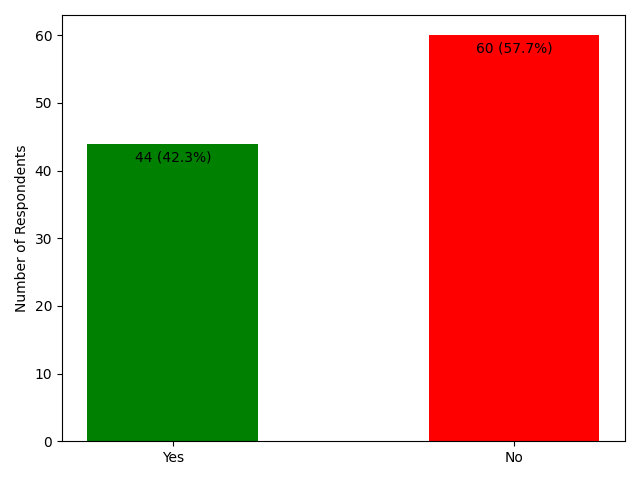
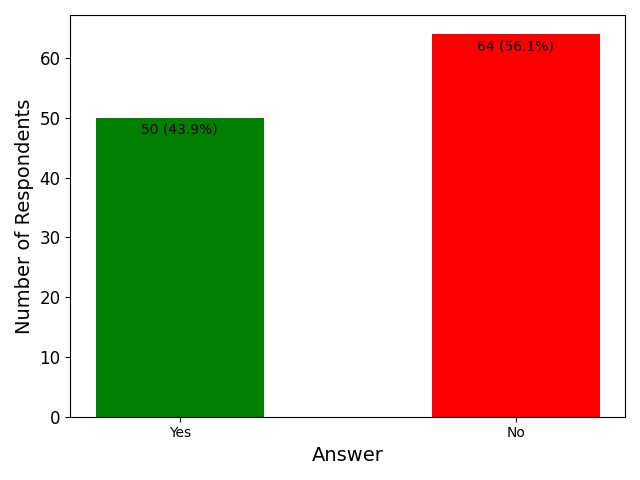
update plots

diff --git a/src/plot/plot.py b/src/plot/plot.py
@@ -1,4 +1,7 @@
 import matplotlib.pyplot as plt
+import pandas as pd
+import numpy as np
+import seaborn as sns
 
 
 def pieChart(labels, numbers):
@@ -24,8 +27,8 @@ def stackedBarChart():
         "Do not know that these devices are recyclable",
         "Another reason",
     ]
-    counts = [38, 26, 35, 8, 55, 9, 12]
-    totalNumber = 89
+    counts = [44, 29, 39, 8, 59, 10, 12]
+    totalNumber = 96
 
     # sort them
     temp = [(x, y) for x, y in zip(reasons, counts)]
@@ -35,13 +38,14 @@ def stackedBarChart():
 
     # Create the bar chart
     plt.barh(reasons, counts)
+    plt.yticks(fontsize=14)
     fig = plt.gcf()
     fig.set_figwidth(10)
     fig.set_figheight(6)
 
     # Add labels and legend
-    plt.xlabel("Number of Respondents")
-    plt.ylabel("Reason")
+    plt.xlabel("Number of Respondents", fontsize=14)
+    plt.ylabel("Reason", fontsize=14)
     plt.xlim(0, totalNumber)
 
     # Add number and percentage labels to the bars
@@ -62,9 +66,11 @@ def stackedBarChart():
 def barChart(answers, counts, colors):
     # Create the bar chart
     plt.bar(answers, counts, color=colors, width=0.5)
+    plt.yticks(fontsize=12)
 
     # Add labels and title
-    plt.ylabel("Number of Respondents")
+    plt.ylabel("Number of Respondents", fontsize=14)
+    plt.xlabel("Answer", fontsize=14)
 
     # Add number and percentage labels to the bars
     for i, count in enumerate(counts):
@@ -84,20 +90,81 @@ def barChart(answers, counts, colors):
 if __name__ == "__main__":
     # plot number of devices at home
     labels = ["0", "1", "2-3", "4-6", "7+"]
-    numbers = [7, 13, 54, 17, 13]
+    numbers = [8, 15, 56, 21, 14]
     pieChart(labels, numbers)
 
     # plot age of respondents
     labels = ["0-18", "19-29", "30-39", "40-49", "50-59", "60+"]
-    numbers = [1, 28, 29, 17, 22, 7]
-    print(numbers)
+    numbers = [1, 31, 31, 20, 23, 8]
     pieChart(labels, numbers)
 
     # plot the reasons for not sending them for recycling
     stackedBarChart()
 
     # plot if respondents have ever sent items for recycling
-    barChart(["Yes", "No"], [44, 60], ["green", "red"])
+    barChart(["Yes", "No"], [50, 64], ["green", "red"])
 
     # plot if tracking system would encourage sending of devices
-    barChart(["Yes", "No"], [50, 41], ["green", "red"])
+    barChart(["Yes", "No"], [56, 45], ["green", "red"])
+
+    df = pd.read_csv("survey.csv")
+    # drop all rows, where reason is nan
+    df = df[df[df.columns[5]].notna()]
+    # get only rows for which respondents didn't list "I might use the device someday" as a reason for not sending it
+    # columns: timestamp, gender, age, num devices at home, reason, encourage, anything else
+    filtered_df = df[
+        ~df[df.columns[5]].str.contains("I might need the device someday", na=False)
+    ]
+    reasons = [
+        "I am afraid that my data on these devices may be abused",
+        "I have not had the time yet to send them in",
+        "I do not know where to submit these items for recycling",
+        "I do not see the value of it",
+        "I might need the device someday",
+        "I do not know that these items are recyclable",
+        "Another reason",
+    ]
+    for reason in reasons:
+        print("Reason: {}".format(reason))
+        temp = len(
+            filtered_df[filtered_df[filtered_df.columns[5]].str.contains(reason)]
+        )
+        print("Count: {}, {}%".format(temp, np.round(temp / len(filtered_df) * 100, 3)))
+
+    # check if different age groups have different reasons
+    age_groups = ["0-18", "19-29", "30-39", "40-49", "50-59", "60+"]
+
+    matrix = np.empty((len(age_groups), len(reasons)))
+    for i, age in enumerate(age_groups):
+        for j, reason in enumerate(reasons):
+            matrix[i, j] = len(
+                df[
+                    (df[df.columns[2]] == age)
+                    & (df[df.columns[5]].str.contains(reason))
+                ]
+            )
+
+    num_respondents_per_age_group = np.array(
+        [len(df[df[df.columns[2]] == age]) for age in age_groups]
+    )
+    print(matrix)
+    matrix = matrix / num_respondents_per_age_group[:, np.newaxis]
+
+    reasons = [
+        "Afraid of data abuse",
+        "No time yet",
+        "Do not know where to submit devices",
+        "Do not see the value of it",
+        "Might need the device someday",
+        "Do not know that these devices are recyclable",
+        "Another reason",
+    ]
+
+    plt.figure(figsize=(10, 6))
+    ax = sns.heatmap(matrix.T, linewidth=0.5, annot=True, fmt=".0%", cmap="Blues")
+    plt.yticks(np.arange(len(reasons)) + 0.5, labels=reasons, rotation=0)
+    plt.xticks(np.arange(len(age_groups)) + 0.5, labels=age_groups)
+    plt.ylabel("Reason", fontsize=14)
+    plt.xlabel("Age", fontsize=14)
+    plt.tight_layout()
+    plt.show()
